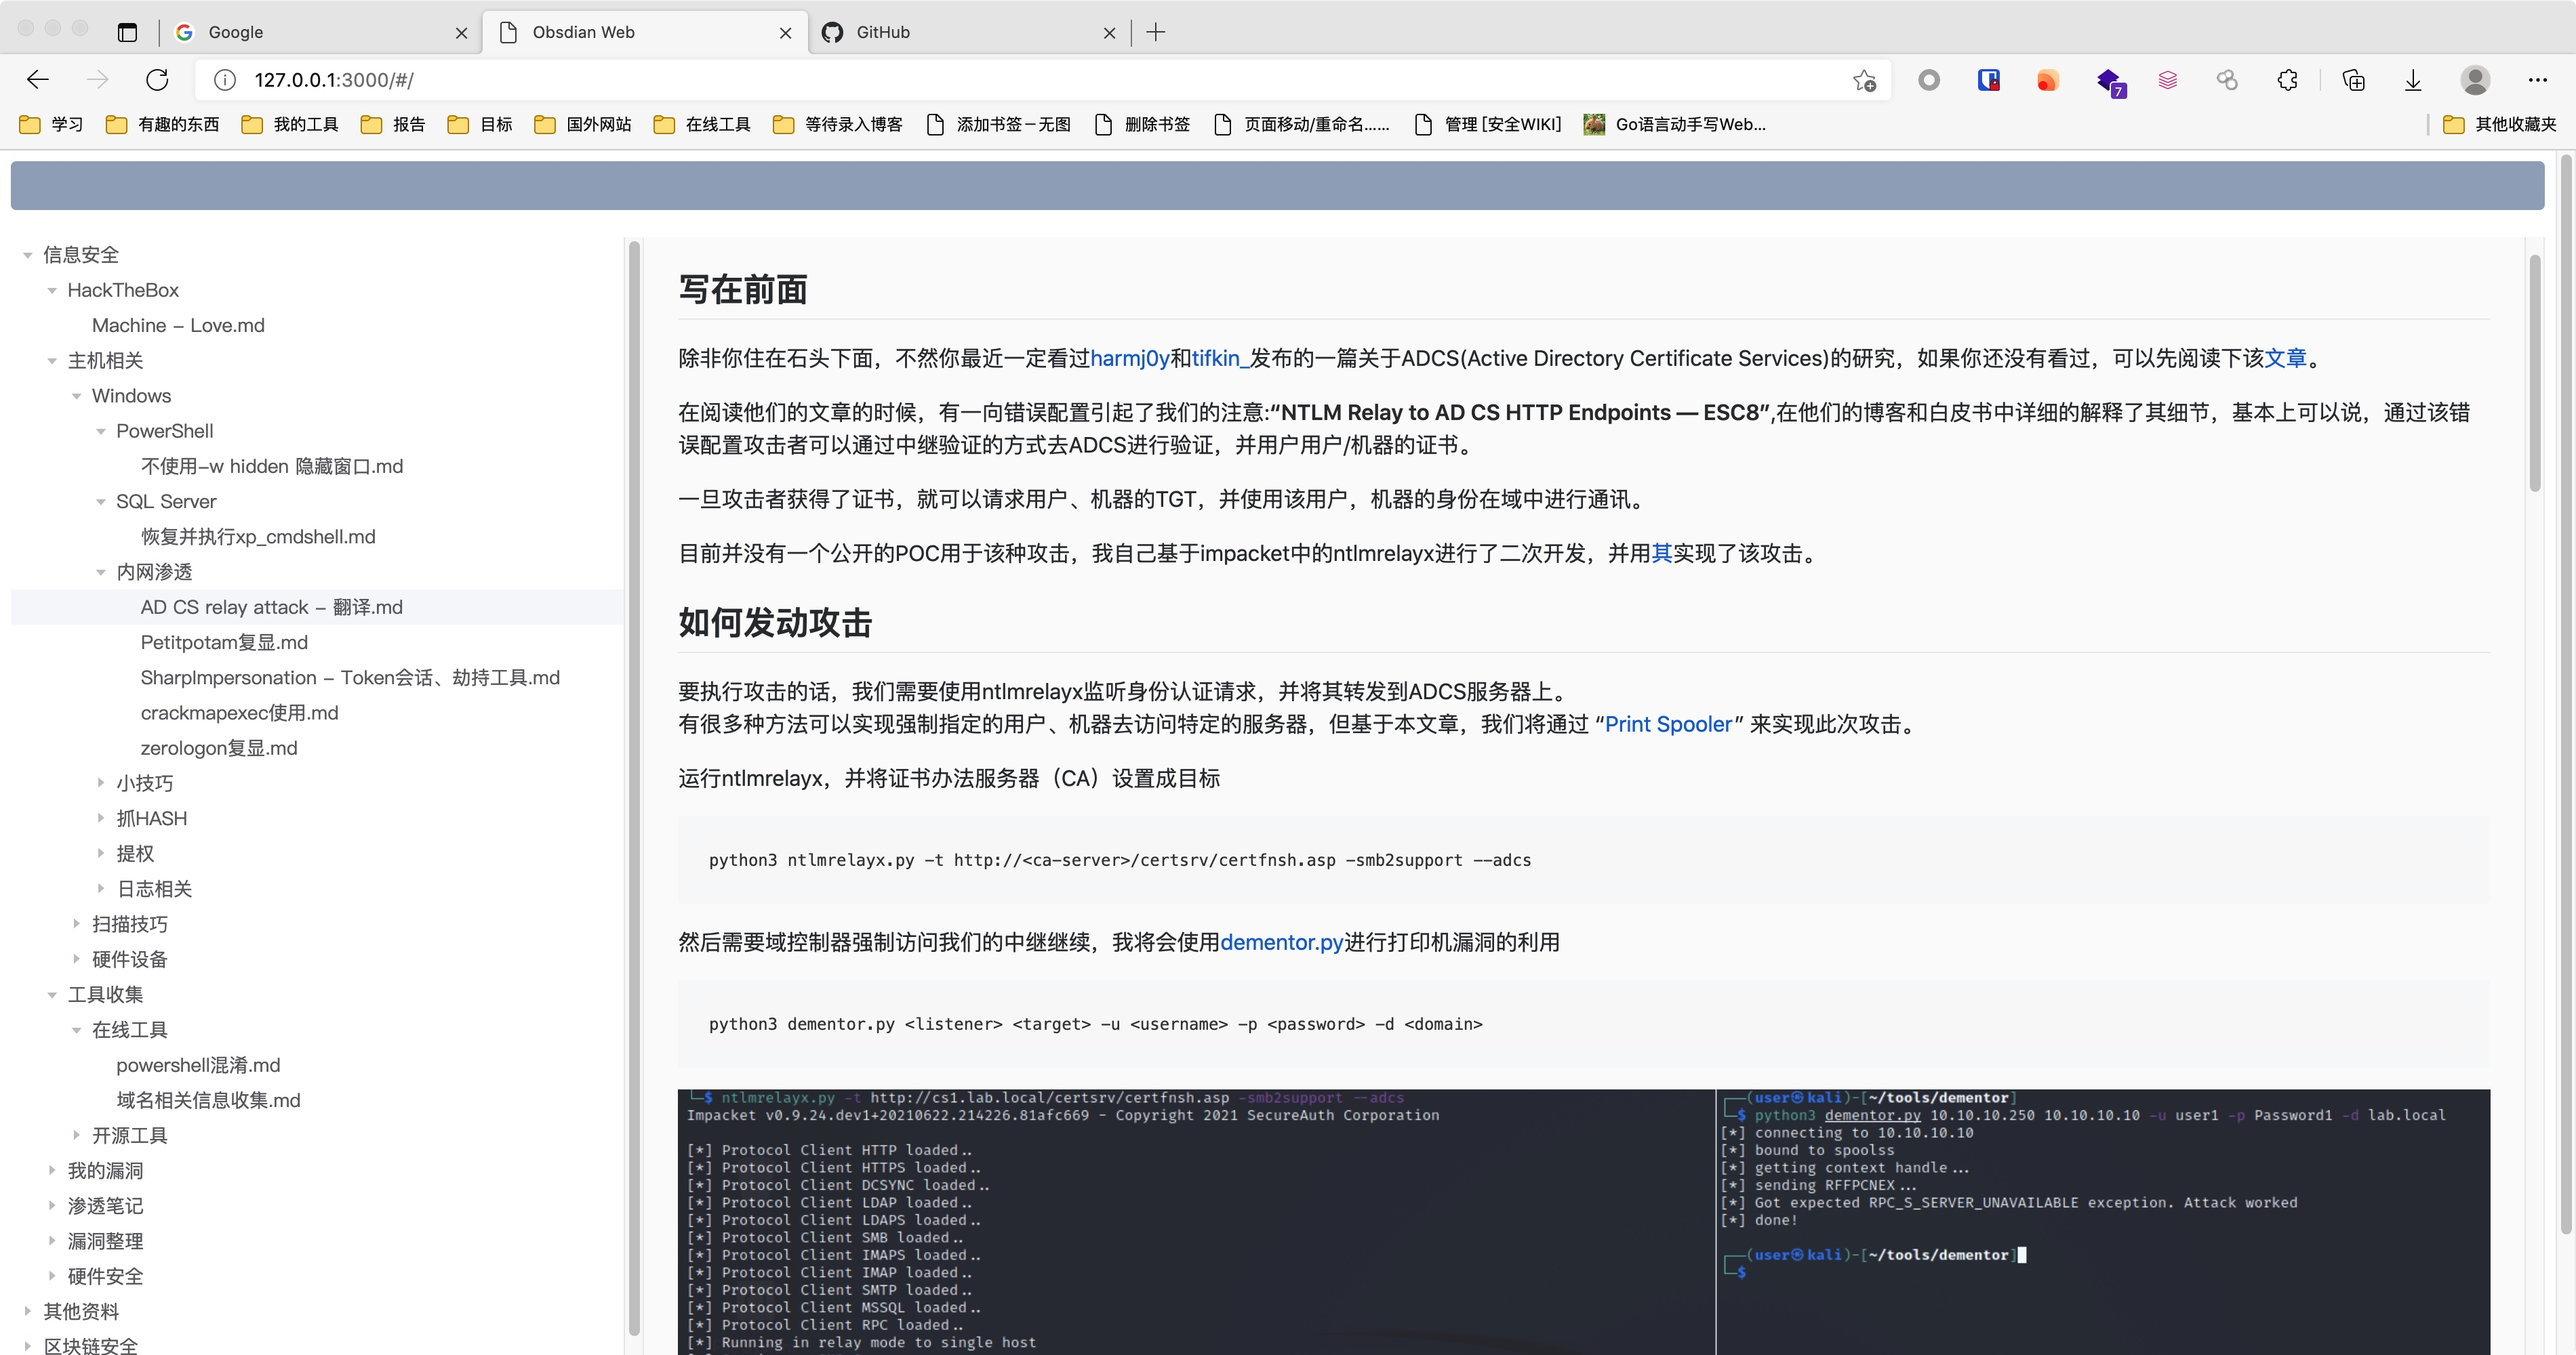
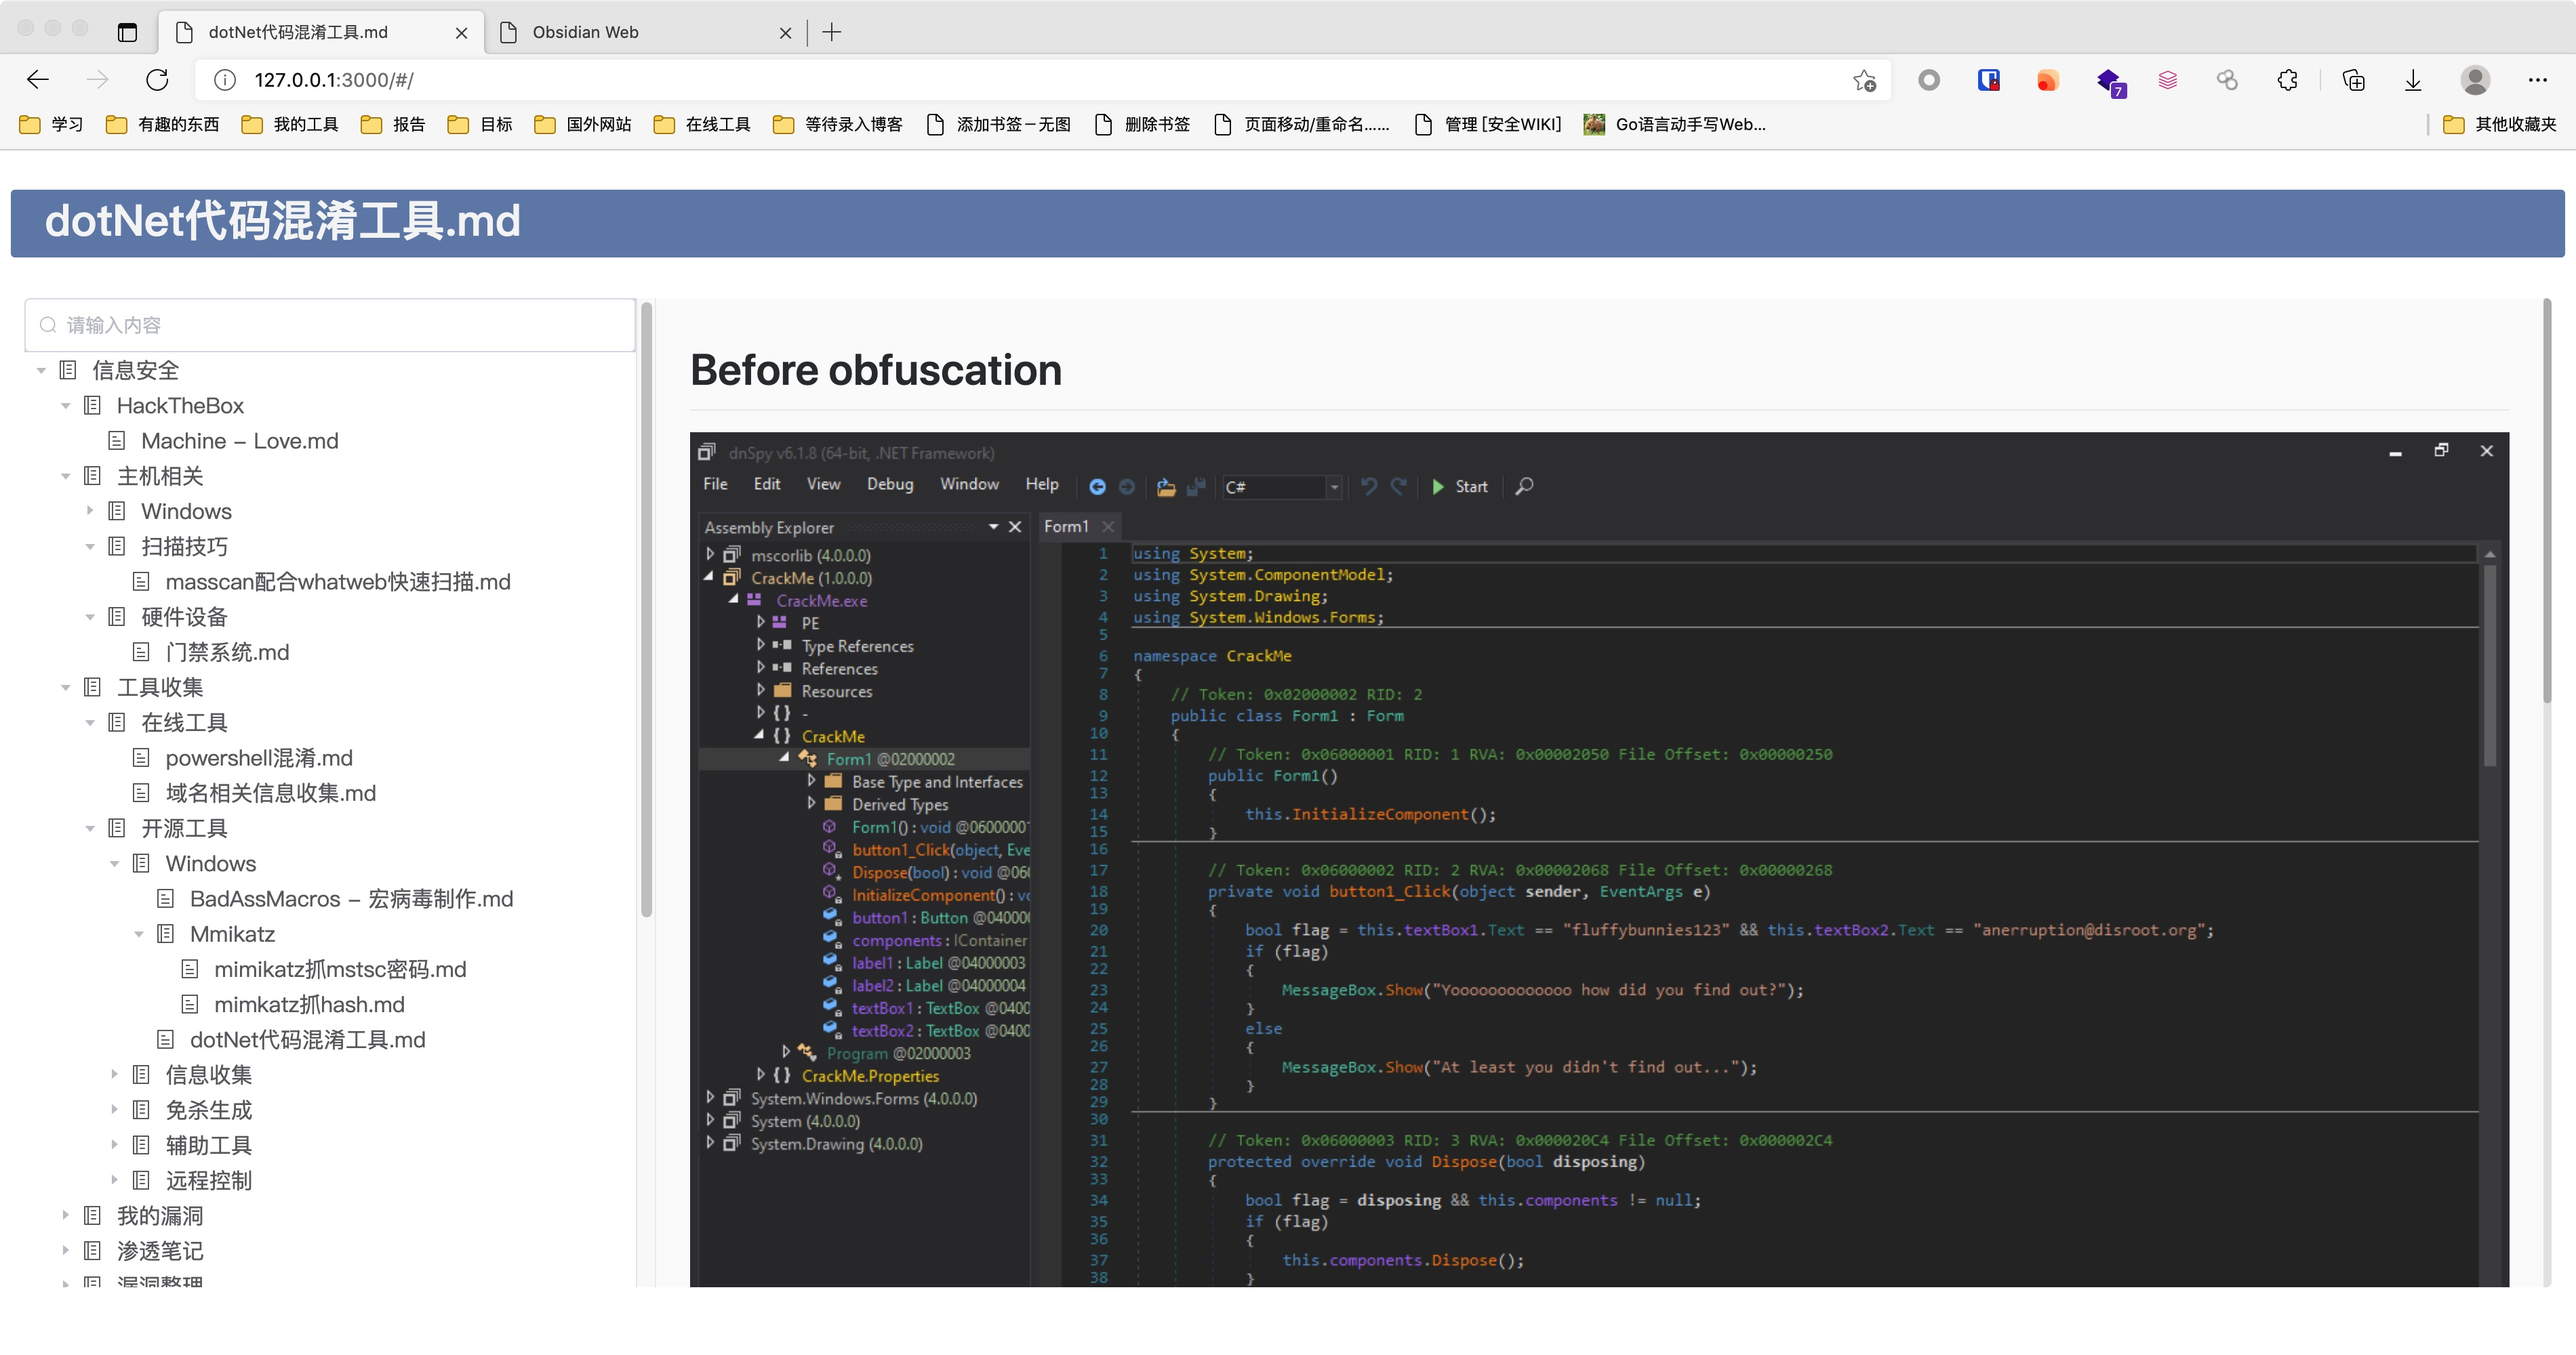
加了一些css

diff --git a/frontend/src/components/Main.vue b/frontend/src/components/Main.vue
@@ -1,30 +1,51 @@
 <template>
   <div id="main">
-    <el-row>
-      <el-col :span="24"
-        ><div class="grid-content bg-purple-dark"></div
-      ></el-col>
-    </el-row>
-    <el-row>
-      <el-col class="left" :span="6"
-        ><div class="grid-content bg-purple">
-          <el-tree
-            :data="filelist"
-            @node-click="handleNodeClick"
-          ></el-tree></div
-      ></el-col>
-      <el-col class="right" :span="18"
-        ><div class="grid-content bg-purple-light">
-          <mavon-editor
-            :toolbars="markdownOption"
-            :preview="true"
-            :subfield="false"
-            :editable="false"
-            :defaultOpen="preview"
-            v-model="text"
-          ></mavon-editor></div
-      ></el-col>
-    </el-row>
+    <div class="header">
+      <el-row>
+        <el-col :span="24"
+          ><div class="grid-content bg-purple-dark">
+            <h1>
+              <span class="title">{{ title }}</span>
+            </h1>
+          </div></el-col
+        >
+      </el-row>
+    </div>
+    <div class="body">
+      <el-row>
+        <el-col class="left" :span="6"
+          ><div class="bg-purple">
+            <el-input
+              placeholder="请输入内容"
+              prefix-icon="el-icon-search"
+              v-model="keyword"
+            >
+            </el-input>
+            <el-tree :data="filelist" @node-click="handleNodeClick">
+              <span slot-scope="{ node, data }">
+                <i v-if="data.type == 'dir'" class="el-icon-notebook-2" />
+                <i v-else class="el-icon-tickets" />
+                <span style="margin-left:5px;" :title="data.name">{{
+                  data.name
+                }}</span>
+              </span>
+            </el-tree>
+          </div></el-col
+        >
+        <el-col class="right" :span="18"
+          ><div class=" bg-purple-light">
+            <mavon-editor
+              :toolbars="markdownOption"
+              :preview="true"
+              :subfield="false"
+              :editable="false"
+              :defaultOpen="preview"
+              :toolbarsFlag="false"
+              v-model="text"
+            ></mavon-editor></div
+        ></el-col>
+      </el-row>
+    </div>
   </div>
 </template>
 
@@ -36,24 +57,57 @@ export default {
 
   data() {
     return {
+      // server: "http://127.0.0.1:3000",
+      server: "",
       filelist: [],
+      fulllist: [],
       text: "",
       preview: "preview",
-      markdownOption: {}
+      markdownOption: {},
+      title: "Obsidian Web",
+      keyword: ""
     };
   },
   mounted() {
-    axios.get("/list").then(resp => {
+    axios.get(this.server + "/list").then(resp => {
       console.log("send requests");
       this.filelist = resp.data;
+      this.fulllist = resp.data;
     });
   },
+  watch: {
+    title(newValue, oldValue) {
+      if (newValue != oldValue) {
+        document.title = newValue;
+      }
+    },
+    keyword(newValue) {
+      if (newValue == "") {
+        this.filelist = this.fulllist;
+      } else {
+        this.filelist = [];
+        this.searchKeyword(this.fulllist);
+      }
+    }
+  },
   methods: {
+    searchKeyword(fulllist) {
+      fulllist.forEach(element => {
+        if (element.label.indexOf(this.keyword) != -1)
+          this.filelist.push(element);
+        if (element.type == "dir") {
+          this.searchKeyword(element.children);
+        }
+      });
+    },
     handleNodeClick(e) {
       if (e.type == "file") {
-        axios.get("/read?path=" + encodeURIComponent(e.fullpath)).then(resp => {
-          this.text = resp.data.text;
-        });
+        this.title = e.label;
+        axios
+          .get(this.server + "/read?path=" + encodeURIComponent(e.fullpath))
+          .then(resp => {
+            this.text = resp.data.text;
+          });
       }
       console.log(e);
     }
@@ -72,7 +126,7 @@ export default {
   border-radius: 4px;
 }
 .bg-purple-dark {
-  background: #99a9bf;
+  background: #6584b1;
 }
 .bg-purple {
   background: #d3dce6;
@@ -81,21 +135,33 @@ export default {
   background: #e5e9f2;
 }
 .grid-content {
-  border-radius: 4px;
-  min-height: 36px;
+  border-radius: 3px;
+  min-height: 50px;
 }
 .row-bg {
   padding: 10px 0;
   background-color: #f9fafc;
 }
 .left {
-  max-height: 900px;
-  height: 900px;
-  overflow: scroll;
+  max-height: 730px;
+  height: 730px;
+  overflow-y: scroll;
 }
 .right {
-  max-height: 900px;
-  height: 900px;
-  overflow: scroll;
+  max-height: 730px;
+  height: 730px;
+  overflow: hidden;
+}
+.markdown-body {
+  width: 100%;
+  height: 730px;
+}
+.body {
+  padding: 10px;
+}
+.title {
+  color: #f5f5f5;
+  padding: 25px;
+  /* background-color: #e5e9f2; */
 }
 </style>

diff --git a/Server/index.js b/Server/index.js
@@ -17,7 +17,7 @@ function GetFileList(current) {
         name: file,
         label: file,
         type: "dir",
-        fullpath: `${current}/${file}`,
+        fullpath: `${current}/${file}`.replace(obsdianPath, ""),
         children: GetFileList(`${current}/${file}`),
       });
     } else {
@@ -25,7 +25,7 @@ function GetFileList(current) {
         name: file,
         label: file,
         type: "file",
-        fullpath: `${current}/${file}`,
+        fullpath: `${current}/${file}`.replace(obsdianPath, ""),
         children: [],
       });
     }
@@ -63,14 +63,9 @@ app.get("/read", (req, res) => {
     text: "",
   };
   var path = req.query.path;
+  path = obsdianPath + "/" + path.replace(/\.\./g, "");
   console.log("[*] Read " + path);
-  path = path.replace("..", "");
-  if (path.indexOf(obsdianPath) != 0) {
-    result.code = 401;
-    result.text = "error," + path.indexOf(obsdianPath);
-    console.log("[!] Error " + path);
-    console.log("[!] Error " + obsdianPath);
-  } else {
+  if (fs.existsSync(path)) {
     result.text = replaceStatic(fs.readFileSync(path).toString());
   }
   res.send(result);

diff --git a/frontend/index.html b/frontend/index.html
@@ -3,7 +3,7 @@
   <head>
     <meta charset="utf-8">
     <meta name="viewport" content="width=device-width,initial-scale=1.0">
-    <title>Obsdian Web</title>
+    <title>Obsidian Web</title>
   </head>
   <body>
     <div id="app"></div>

diff --git a/frontend/config/dev.env.js b/frontend/config/dev.env.js
@@ -4,4 +4,5 @@ const prodEnv = require('./prod.env')
 
 module.exports = merge(prodEnv, {
   NODE_ENV: '"development"'
+  
 })
